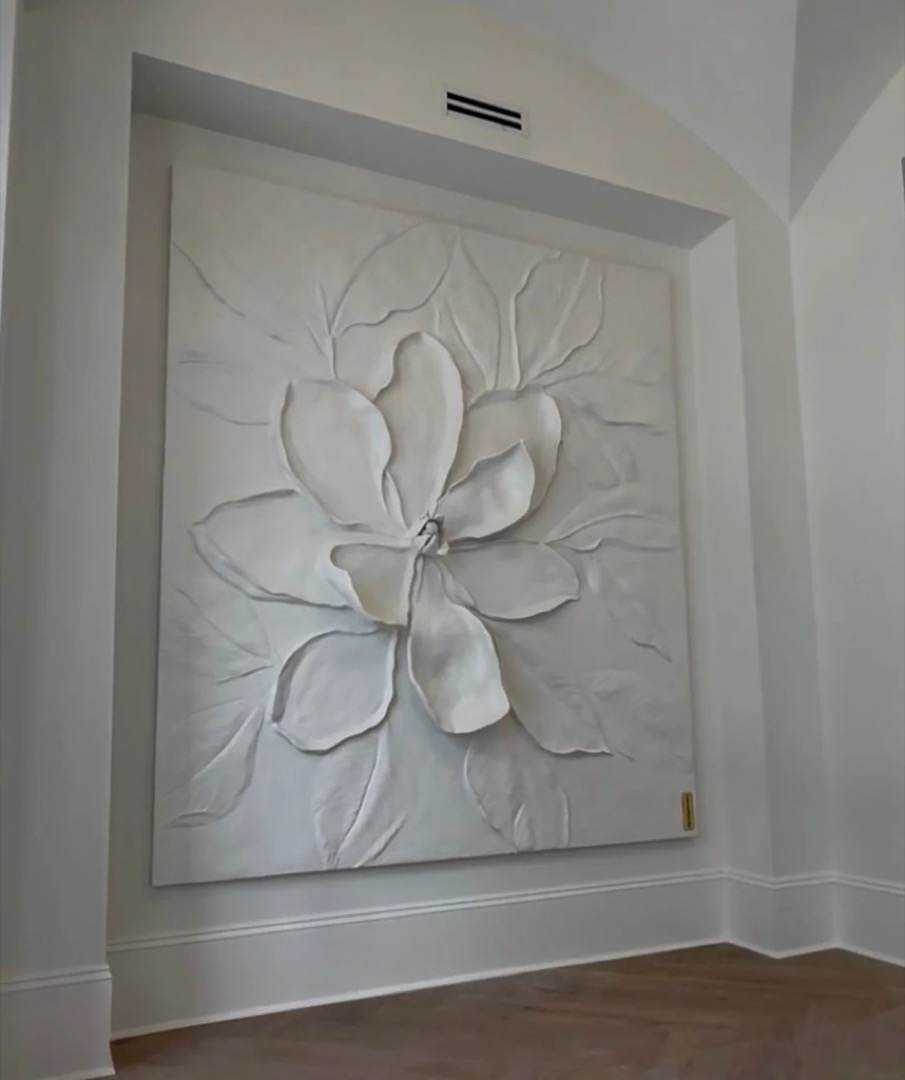
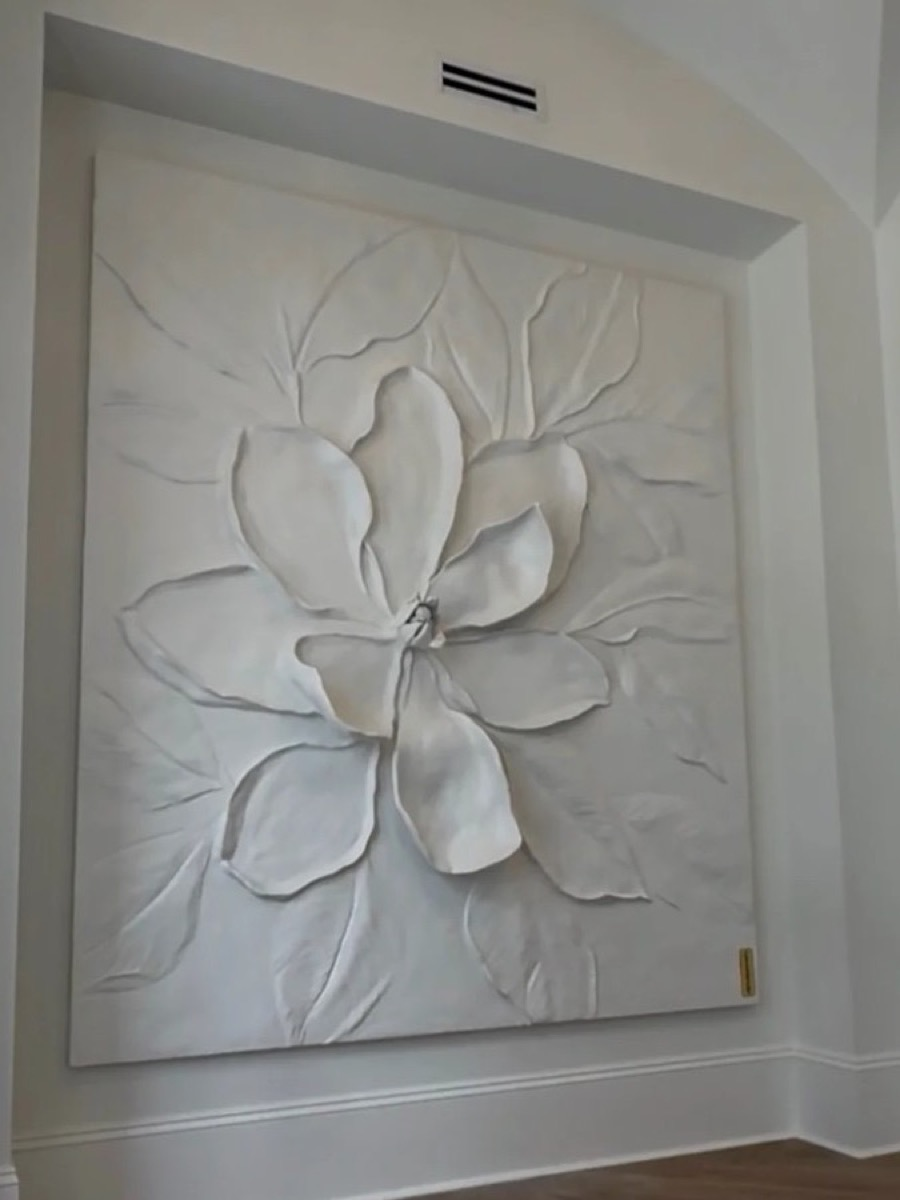
Improve bas-relief cover crop and framing on the hero image.
Tighten the crop on the floral panel and raise resolution so the cover reads cleaner on the page and home card.

diff --git a/bas-relief.html b/bas-relief.html
@@ -12,10 +12,10 @@
 <link rel="preconnect" href="https://fonts.googleapis.com" />
 <link rel="preconnect" href="https://fonts.gstatic.com" crossorigin />
 <link href="https://fonts.googleapis.com/css2?family=Cormorant+Garamond:ital,wght@0,200;0,300;0,400;0,500;1,200;1,300&family=Inter:wght@300;400;500&display=swap" rel="stylesheet" />
-<link rel="stylesheet" href="css/style.css?v=20260601r" />
-<link rel="stylesheet" href="css/magazine.css?v=20260601r" />
-<script src="js/site-config.js?v=20260601r"></script>
-<script src="js/site-nav.js?v=20260601r" defer></script>
+<link rel="stylesheet" href="css/style.css?v=20260601s" />
+<link rel="stylesheet" href="css/magazine.css?v=20260601s" />
+<script src="js/site-config.js?v=20260601s"></script>
+<script src="js/site-nav.js?v=20260601s" defer></script>
 </head>
 <body class="magazine-page">
 <header class="topbar">
@@ -88,10 +88,10 @@
       </div>
     </div>
     <figure class="magazine-photo magazine-photo--cover magazine-photo--immersive">
-      <img class="magazine-photo-ambient" src="images/gallery/bas-relief/slide-01.jpg" alt="" aria-hidden="true" loading="eager" decoding="async" style="object-position:center 48%" />
+      <img class="magazine-photo-ambient" src="images/gallery/bas-relief/slide-01.jpg" alt="" aria-hidden="true" loading="eager" decoding="async" style="object-position:center 40%" />
       <div class="magazine-photo-inner">
         <div class="magazine-art-frame">
-          <img class="magazine-photo-main" src="images/gallery/bas-relief/slide-01.jpg" alt="Bas Relief" loading="eager" decoding="async" data-focal="center 48%" />
+          <img class="magazine-photo-main" src="images/gallery/bas-relief/slide-01.jpg" alt="Bas Relief" loading="eager" decoding="async" data-focal="center 40%" />
         </div>
       </div>
     </figure>
@@ -105,10 +105,10 @@
       <p>Relief is shaped in place, responding to the room's proportions and the way its light falls across the surface.</p>
     </div>
     <figure class="magazine-photo">
-      <img class="magazine-photo-ambient" src="images/gallery/bas-relief/slide-02.jpg" alt="" aria-hidden="true" loading="eager" decoding="async" style="object-position:center 48%" />
+      <img class="magazine-photo-ambient" src="images/gallery/bas-relief/slide-02.jpg" alt="" aria-hidden="true" loading="eager" decoding="async" style="object-position:center 40%" />
       <div class="magazine-photo-inner">
         <div class="magazine-art-frame">
-          <img class="magazine-photo-main" src="images/gallery/bas-relief/slide-02.jpg" alt="Bas Relief — Slide 02" loading="eager" decoding="async" data-focal="center 48%" />
+          <img class="magazine-photo-main" src="images/gallery/bas-relief/slide-02.jpg" alt="Bas Relief — Slide 02" loading="eager" decoding="async" data-focal="center 40%" />
         </div>
       </div>
     </figure>
@@ -121,10 +121,10 @@
       <p>The finished wall reads as built-in — integral to the architecture, never simply applied to it.</p>
     </div>
     <figure class="magazine-photo">
-      <img class="magazine-photo-ambient" src="images/gallery/bas-relief/slide-03.jpg" alt="" aria-hidden="true" loading="lazy" decoding="async" style="object-position:center 48%" />
+      <img class="magazine-photo-ambient" src="images/gallery/bas-relief/slide-03.jpg" alt="" aria-hidden="true" loading="lazy" decoding="async" style="object-position:center 40%" />
       <div class="magazine-photo-inner">
         <div class="magazine-art-frame">
-          <img class="magazine-photo-main" src="images/gallery/bas-relief/slide-03.jpg" alt="Bas Relief — Slide 03" loading="lazy" decoding="async" data-focal="center 48%" />
+          <img class="magazine-photo-main" src="images/gallery/bas-relief/slide-03.jpg" alt="Bas Relief — Slide 03" loading="lazy" decoding="async" data-focal="center 40%" />
         </div>
       </div>
     </figure>
@@ -137,10 +137,10 @@
       <p>Depth comes alive as daylight crosses the relief, the wall shifting in character from morning to evening.</p>
     </div>
     <figure class="magazine-photo">
-      <img class="magazine-photo-ambient" src="images/gallery/bas-relief/slide-04.jpg" alt="" aria-hidden="true" loading="lazy" decoding="async" style="object-position:center 48%" />
+      <img class="magazine-photo-ambient" src="images/gallery/bas-relief/slide-04.jpg" alt="" aria-hidden="true" loading="lazy" decoding="async" style="object-position:center 40%" />
       <div class="magazine-photo-inner">
         <div class="magazine-art-frame">
-          <img class="magazine-photo-main" src="images/gallery/bas-relief/slide-04.jpg" alt="Bas Relief — Slide 04" loading="lazy" decoding="async" data-focal="center 48%" />
+          <img class="magazine-photo-main" src="images/gallery/bas-relief/slide-04.jpg" alt="Bas Relief — Slide 04" loading="lazy" decoding="async" data-focal="center 40%" />
         </div>
       </div>
     </figure>
@@ -153,10 +153,10 @@
       <p>Relief rises in layers — modeled, dried, refined — until the form feels carved from the wall itself.</p>
     </div>
     <figure class="magazine-photo">
-      <img class="magazine-photo-ambient" src="images/gallery/bas-relief/gallery-01.jpg" alt="" aria-hidden="true" loading="lazy" decoding="async" style="object-position:center 48%" />
+      <img class="magazine-photo-ambient" src="images/gallery/bas-relief/gallery-01.jpg" alt="" aria-hidden="true" loading="lazy" decoding="async" style="object-position:center 40%" />
       <div class="magazine-photo-inner">
         <div class="magazine-art-frame">
-          <img class="magazine-photo-main" src="images/gallery/bas-relief/gallery-01.jpg" alt="Bas Relief — Gallery 01" loading="lazy" decoding="async" data-focal="center 48%" />
+          <img class="magazine-photo-main" src="images/gallery/bas-relief/gallery-01.jpg" alt="Bas Relief — Gallery 01" loading="lazy" decoding="async" data-focal="center 40%" />
         </div>
       </div>
     </figure>
@@ -169,10 +169,10 @@
       <p>Moldings, arches, and panel lines guide where relief lives. Connie follows the architecture, not a formula.</p>
     </div>
     <figure class="magazine-photo">
-      <img class="magazine-photo-ambient" src="images/gallery/bas-relief/gallery-02.jpg" alt="" aria-hidden="true" loading="lazy" decoding="async" style="object-position:center 48%" />
+      <img class="magazine-photo-ambient" src="images/gallery/bas-relief/gallery-02.jpg" alt="" aria-hidden="true" loading="lazy" decoding="async" style="object-position:center 40%" />
       <div class="magazine-photo-inner">
         <div class="magazine-art-frame">
-          <img class="magazine-photo-main" src="images/gallery/bas-relief/gallery-02.jpg" alt="Bas Relief — Gallery 02" loading="lazy" decoding="async" data-focal="center 48%" />
+          <img class="magazine-photo-main" src="images/gallery/bas-relief/gallery-02.jpg" alt="Bas Relief — Gallery 02" loading="lazy" decoding="async" data-focal="center 40%" />
         </div>
       </div>
     </figure>
@@ -332,7 +332,7 @@
   <p class="magazine-lightbox-meta" id="magazine-lightbox-meta"></p>
 </div>
 
-<script src="js/main.js?v=20260601r"></script>
-<script src="js/magazine.js?v=20260601r"></script>
+<script src="js/main.js?v=20260601s"></script>
+<script src="js/magazine.js?v=20260601s"></script>
 </body>
 </html>

diff --git a/js/curated-pages.js b/js/curated-pages.js
@@ -14,8 +14,8 @@ const CURATED_PAGES = {
   murals: base("center 35%"),
   fauxFinishes: base("center 38%"),
   basRelief: {
-    ...base("center 48%"),
-    focal: { cover: "center 48%", "slide-01": "center 48%" },
+    ...base("center 40%"),
+    focal: { cover: "center 40%", "slide-01": "center 40%" },
   },
   cabinetFinishes: base("center 40%"),
   ceilingsFloors: base("center 28%"),

diff --git a/js/site-config.js b/js/site-config.js
@@ -1,5 +1,5 @@
 /** Site navigation, practice list, and asset cache version. */
-const SITE_VERSION = "20260601r";
+const SITE_VERSION = "20260601s";
 
 const SITE_PRACTICES = [
   { href: "murals.html", label: "Murals", slug: "murals" },
